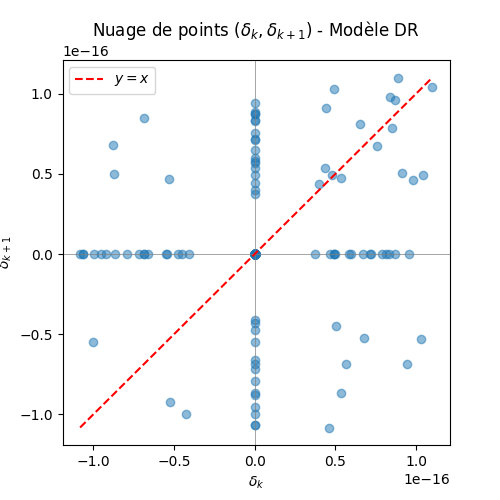
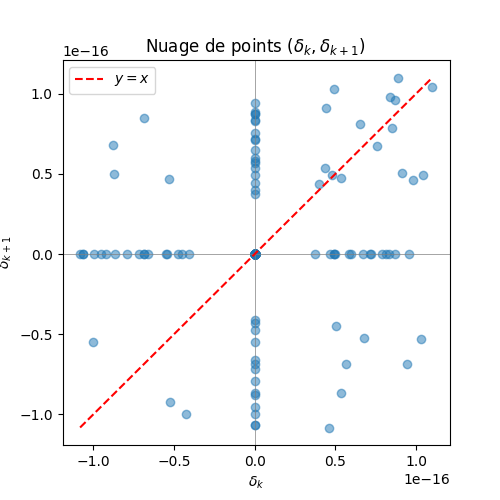
correction code independance

Changed region(s): [[0.18, 0.03, 0.84, 0.12]]

diff --git a/independance.py b/independance.py
@@ -30,6 +30,14 @@ deltas = np.array(deltas)
 a = deltas[:-1]  
 b = deltas[1:]   
 
+# Calcul manuel de la corrélation de Pearson
+covariance = np.cov(a, b, ddof=0)[0, 1]
+std_a = np.std(a, ddof=0)
+std_b = np.std(b, ddof=0)
+r = covariance / (std_a * std_b)
+
+print(f"Coefficient de corrélation de Pearson r = {r:.6e}")
+
 # Tracé du nuage de points
 plt.figure(figsize=(5,5))
 plt.scatter(a, b, alpha=0.5)
@@ -38,6 +46,6 @@ plt.axvline(0, color='grey', lw=0.5)
 plt.plot([a.min(), a.max()], [a.min(), a.max()], 'r--', label='$y = x$')
 plt.xlabel(r'$\delta_k$')
 plt.ylabel(r'$\delta_{k+1}$')
-plt.title('Nuage de points $(\delta_k, \delta_{k+1})$ - Modèle DR')
+plt.title('Nuage de points $(\delta_k, \delta_{k+1})$ ')
 plt.legend()
 plt.show()
